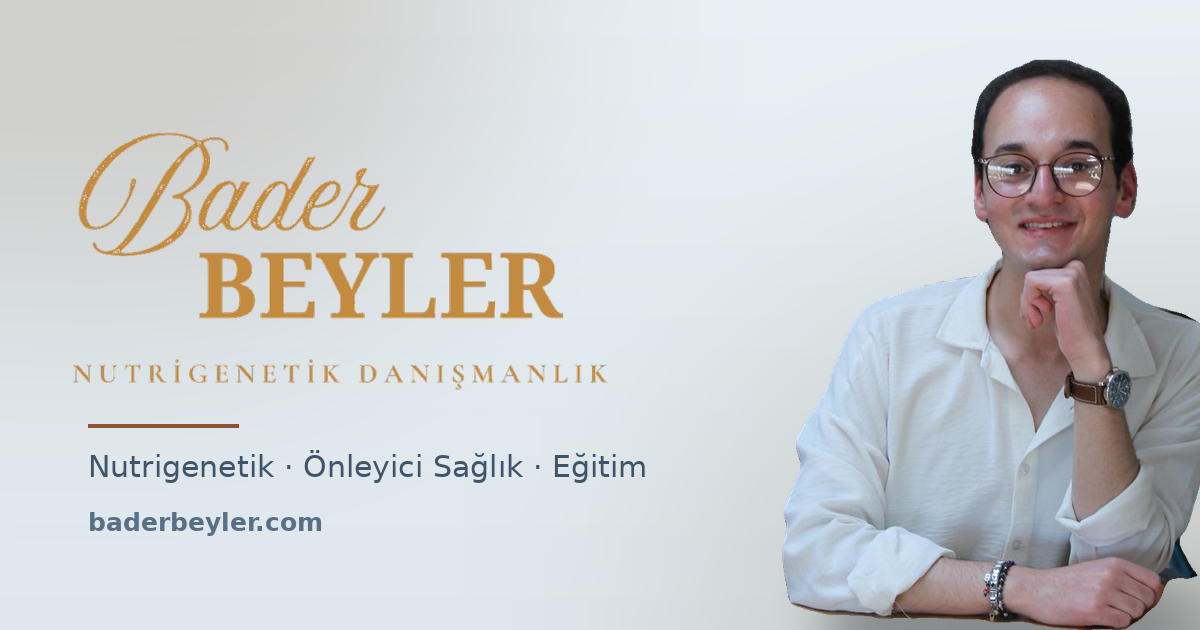
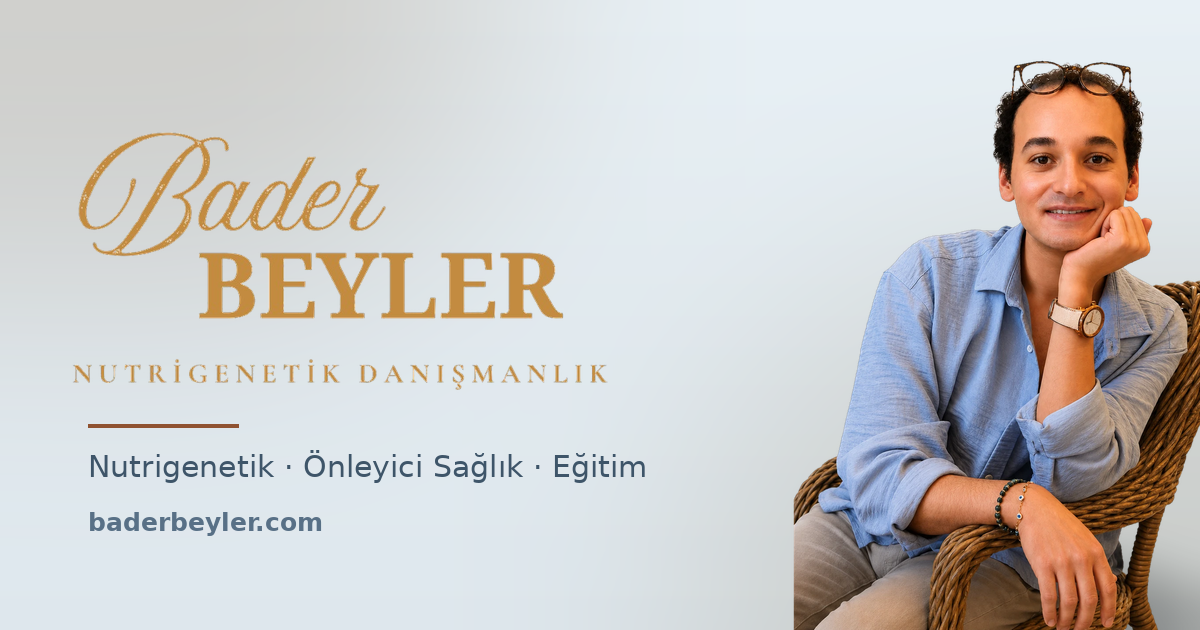
Hero portresini profesyonel rötuşlu hasır koltuklu fotoğrafla değiştir
* Form teslimat hatalarını düzelt: sahte başarı mesajı ve randevu adresi

- FormSubmit servisi hata durumlarını da HTTP 200 ile döndürdüğü için
  formlar hiç teslim edilmediği halde ziyaretçiye "Gönderildi ✓"
  gösteriliyordu; artık servisin gerçek success alanı kontrol ediliyor,
  başarısızlıkta dürüstçe "Gönderilemedi" görünüyor
- Randevu formları (ana sayfa ön görüşme penceresi + nutrigenetik sayfası)
  randevu@baderbeyler.com adresine bağlandı; genel iletişim formu
  iletisim@baderbeyler.com'da kaldı
- Nutrigenetik sayfasındaki ASCII yazılmış Türkçe metinler düzeltildi

Claude-Session: https://claude.ai/code/session_011eaLHZzc7bGWapW8EXTLpR

* Hero portresini profesyonel rötuşlu hasır koltuklu fotoğrafla değiştir

Kullanıcının gönderdiği, arka planı ve gözlük camları profesyonelce
temizlenmiş kare hero'ya yerleştirildi (şeffaflık, chat aktarımında
bozulan dama deseninden bağlantı analiziyle geri kazanıldı).
Paylaşım kartı yenilendi; önbellek v5.

Claude-Session: https://claude.ai/code/session_011eaLHZzc7bGWapW8EXTLpR

---------

Changed region(s): [[0.6475, 0.0905, 1.0, 1.0]]

diff --git a/src/data/site.ts b/src/data/site.ts
@@ -149,9 +149,7 @@ export const heroContent = {
   bgText: isNonEmptyString(heroData.bgText) ? heroData.bgText : 'Bader Beyler',
   rightEyebrow: isNonEmptyString(heroData.rightEyebrow) ? heroData.rightEyebrow : 'Hakkında',
   stats: parseStats(heroData.stats, defaultHeroStats),
-  heroImage: '/assets/images/hero-person.webp',
-  heroImageAlt: 'Bader Beyler ekip görseli',
-  focusImage: '/assets/images/hero-focus-portrait.webp?v=4',
+  focusImage: '/assets/images/hero-focus-portrait.webp?v=5',
   focusImageAlt: 'Bader Beyler portre görseli',
   appearance: {
     rightPanelWidth: 480,
@@ -285,6 +283,12 @@ export const eventsContent = {
   emptyTitle: 'Yeni duyurular <em>çok yakında</em>',
   emptyText: 'Yeni tarih ve şehir bilgileri netleştikçe bu alan güncellenecek.',
   appearance: { titleSize: 3.35, cardTitleSize: 2.2, paddingY: 7, listMarginTop: 3 },
+  pastTitle: 'Geçmiş <em>etkinliklerden</em>',
+  pastEvents: [
+    { image: '/assets/images/seminer-1.webp?v=2', title: 'Diyetisyenler İçin Nutrigenetiğe Giriş' },
+    { image: '/assets/images/seminer-2.webp?v=2', title: '40+ Kadın Sağlığı Paneli' },
+    { image: '/assets/images/seminer-3.webp?v=2', title: 'Aşkın ve Ayrılığın Genetiği; Ruh Sağlığı Panelleri' },
+  ],
 };
 
 export const blogContent = {
